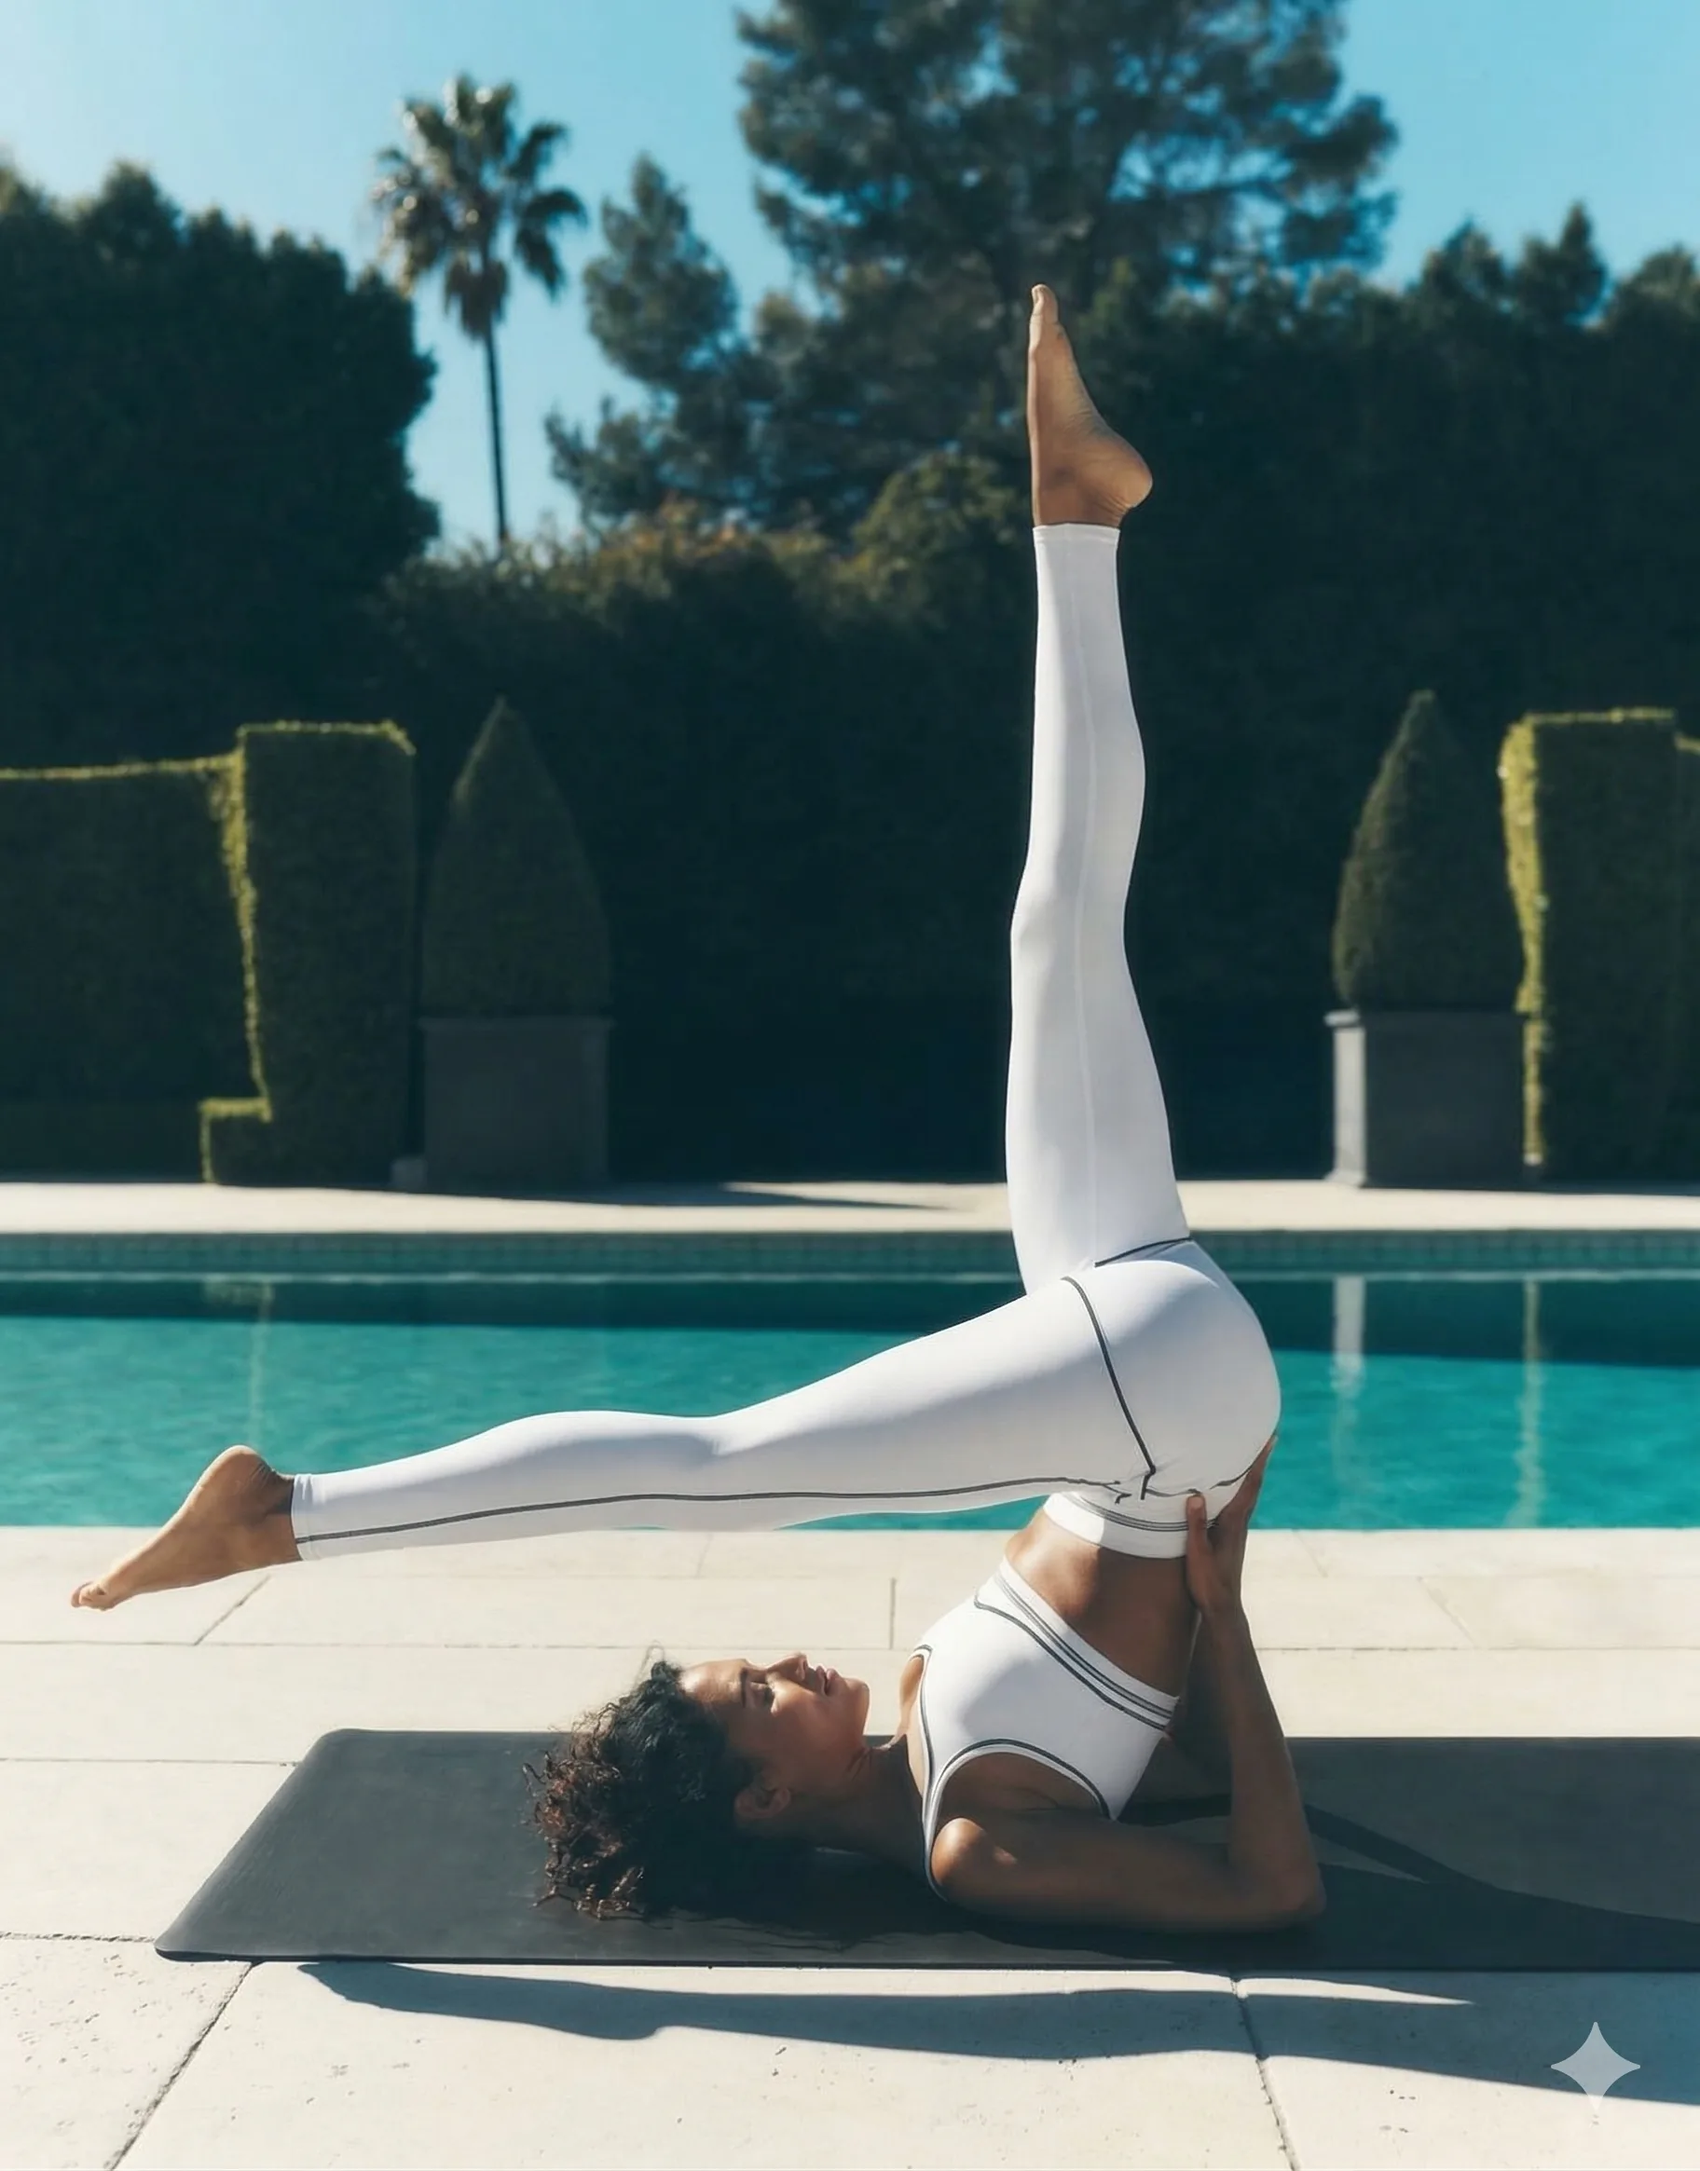
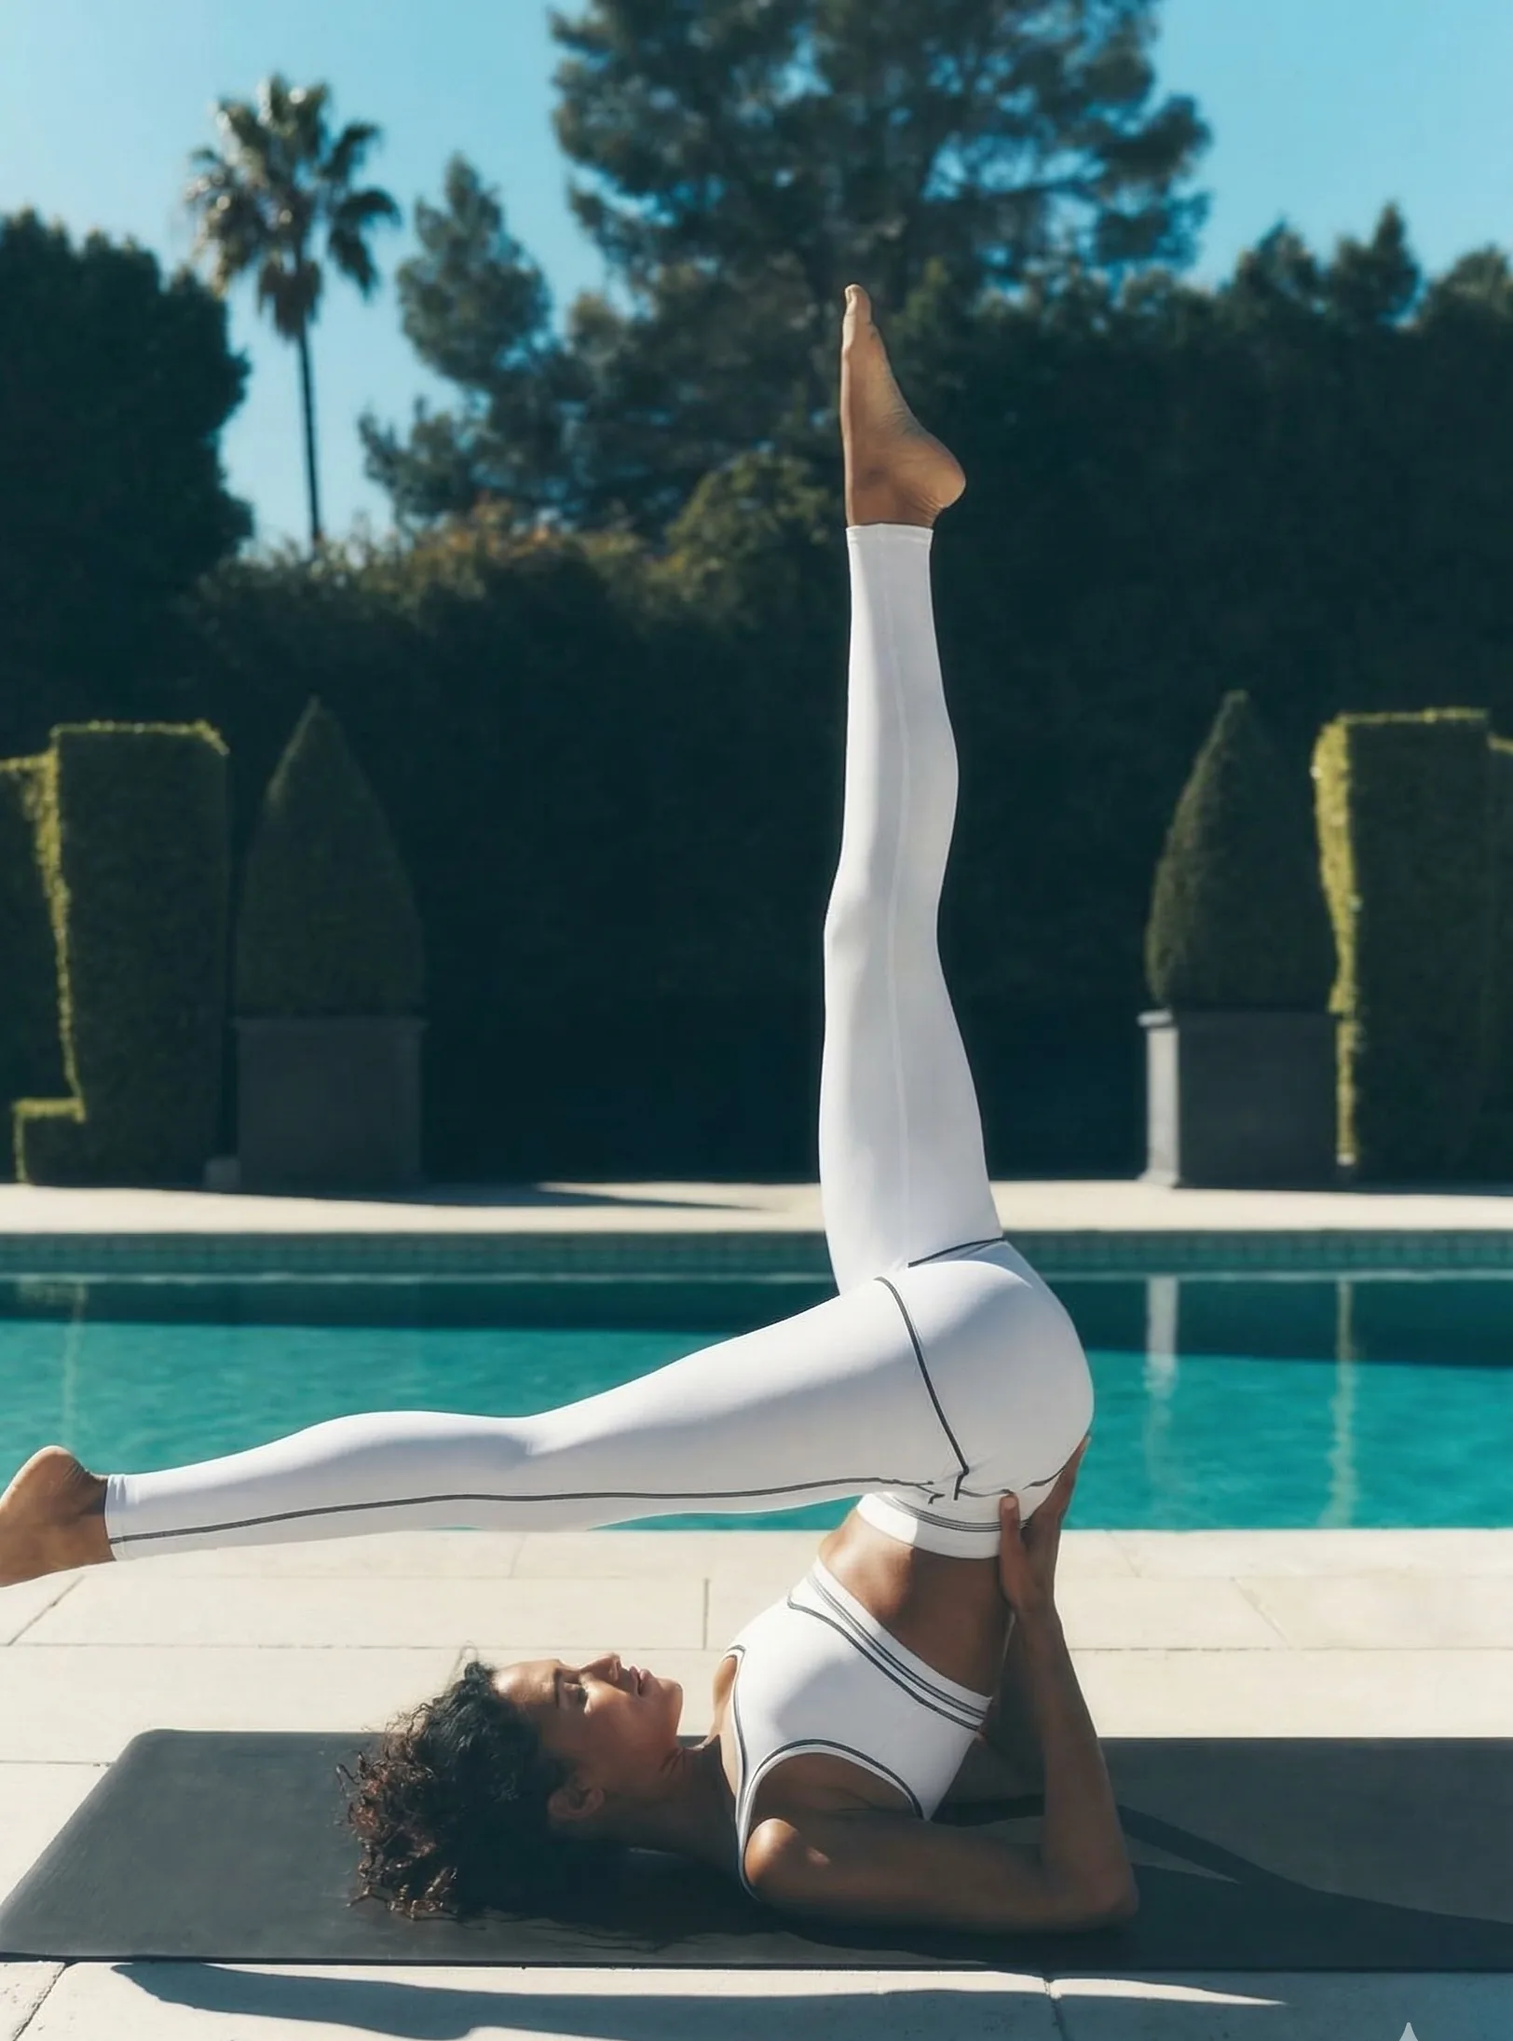
ForEveryone: adjust image container to 3:4 portrait ratio for yoga photo
Cropped Gemini watermark from bottom-left, woman fully visible.

diff --git a/site/components/ForEveryone.tsx b/site/components/ForEveryone.tsx
@@ -55,12 +55,12 @@ export default function ForEveryone() {
 
           {/* Image side */}
           <FadeIn delay={0.15}>
-            <div className="relative overflow-hidden rounded-2xl aspect-[3/4] lg:aspect-[3/4] lg:min-h-[600px]">
+            <div className="relative overflow-hidden rounded-2xl aspect-[3/4] lg:aspect-auto lg:min-h-[500px]">
               <Image
                 src="/images/products/yoga-poolside-stretch.webp"
                 alt="Woman stretching poolside - Salt.Magic daily hydration for everyone"
                 fill
-                className="object-cover object-[center_70%]"
+                className="object-cover"
                 sizes="(max-width: 1024px) 100vw, 55vw"
               />
             </div>
